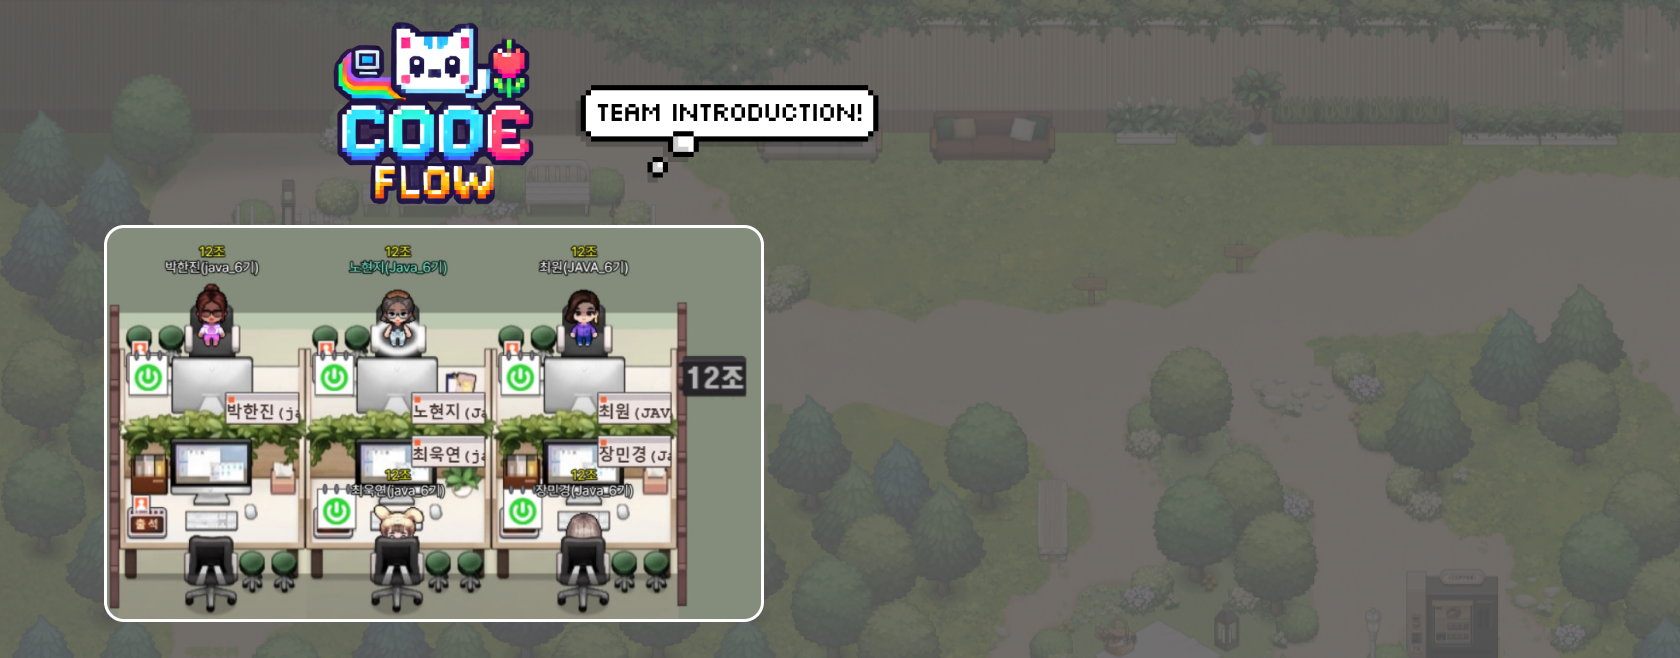
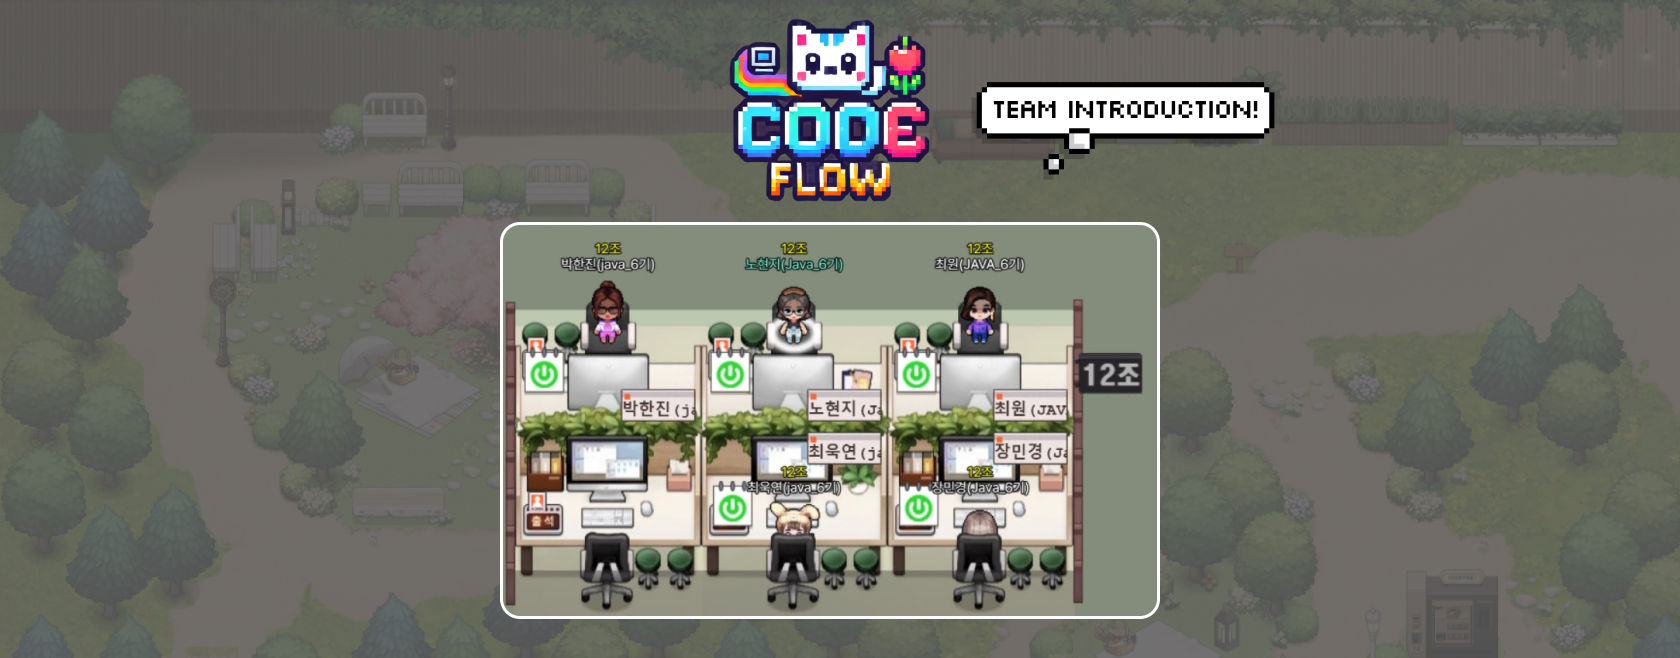
디자인 최종 수정

diff --git a/main.html b/main.html
@@ -25,6 +25,14 @@
             flex-direction: column;
             align-items: center;
             justify-content: center;
+            background-image: url('3131070.jpg');
+            background-size: cover;
+
+            background-position: center center;
+
+
+
+
         }
 
         .title {
@@ -37,17 +45,64 @@
             width: 2000px;
         }
 
-        .logo {
+        .onetwo {
             background-color: transparent;
-            margin-top: 10px;
+
         }
+
+        .uptitle {
+            display: flex;
+            font-size: 3em;
+            justify-content: center;
+            gap: 200px;
+            background-color: transparent;
+            padding: 10px;
+
+
+        }
+
+        .uptitle a {
+            color: white;
+            text-decoration: none;
+            font-size: 40px;
+            padding: 10px 30px;
+            background-color: transparent;
+            border-radius: 5px;
+        }
+
+        .uptitle a:hover {
+            background-color: #555;
+
+        }
+
 
         .main_img {
             display: flex;
             flex-direction: column;
             align-items: center;
             justify-content: center;
-            background-size: contain;
+            color: white;
+            background-image: url('title.png');
+            background-size: cover;
+            background-position: center;
+            background-color: rgba(26, 18, 69, 1);
+            width: 2000px;
+            height: 800px;
+            opacity: 1;
+            z-index: -1;
+
+
+
+
+        }
+
+        .main_img>h1 {
+            margin-left: 850px;
+            margin-bottom: 200px;
+            font-size: 3em;
+            margin-top: 400px;
+
+
         }
 
         .team {
@@ -70,7 +125,9 @@
             margin: 30px auto 10px auto;
             text-align: center;
             border-radius: 100px;
-            margin-top: 50px;
+            margin-top: 200px;
+            margin-bottom: 200px;
+
 
         }
 
@@ -92,6 +149,8 @@
             align-items: center;
             justify-content: center;
             margin-top: 80px;
+            
+
 
         }
 
@@ -158,6 +217,7 @@
             margin-bottom: 50px;
             text-align: center;
         }
+
         .col2 {
             display: flex;
             flex-direction: column;
@@ -166,6 +226,7 @@
             margin-bottom: 50px;
             text-align: center;
         }
+
         .col3 {
             display: flex;
             flex-direction: column;
@@ -173,6 +234,8 @@
             justify-content: center;
             margin-bottom: 50px;
             text-align: center;
+        }
+        .allbox{
         }
     </style>
 
@@ -248,12 +311,20 @@
 
 <body>
     <div class="title">
-        <img class="logo" src="file 1.png">
+        <div class="onetwo">
+            <nav class="uptitle">
+                <a href="#teamint">🌼팀원 소개🌼</a>
+                <a href="#one">🎉응원 한마디🎉</a>
+            </nav>
+        </div>
+
+
     </div>
     <div class="main_img">
-        <img src="title.png">
+        
+
     </div>
-    <div class="team">
+    <div class="team" id="teamint">
         <p>🌼팀원 소개🌼</p>
     </div>
     <div class="mycards">
@@ -330,47 +401,49 @@
             </div>
         </div>
     </div>
+    <div class="allbox" id="one">
+        <div class="text-ch">
+            <h1 class="display-5 fw-bolder" style="color: rgb(255, 255, 255);">🎉응원 한마디🎉</h1>
+        </div>
+        <div class="postingbox">
+            <div class="post-ch" id="input-card">
+                <div class="post" id="input-card">
+                    <div class="form-floating mb-3">
+                        <input type="email" class="form-control" id="who" placeholder="name@example.com">
+                        <label for="floatingInput">닉네임</label>
+                    </div>
 
-    <div class="text-ch">
-        <h1 class="display-5 fw-bolder">🎉응원 한마디🎉</h1>
-    </div>
-    <div class="postingbox">
-        <div class="post-ch" id="input-card">
-            <div class="post" id="input-card">
-                <div class="form-floating mb-3">
-                    <input type="email" class="form-control" id="who" placeholder="name@example.com">
-                    <label for="floatingInput">닉네임</label>
-                </div>
-
-                <div class="input-group mb-3">
-                    <button class="btn btn-outline-secondary" type="button">응원이모지</button>
-                    <select class="form-select" id="emoji" aria-label="Example select with button addon">
-                        <option selected>이모지 선택</option>
-                        <option value="👏">👏</option>
-                        <option value="🎉">🎉</option>
-                        <option value="🤳">🤳</option>
-                        <option value="💖">💖</option>
-                        <option value="✌">✌</option>
-                        <option value="🤝">🤝</option>
-                        <option value="🤓">🤓</option>
-                        <option value="👍">👍</option>
-                        <option value="😍">😍</option>
-                    </select>
-                </div>
-                <div class="form-floating">
-                    <textarea class="form-control" placeholder="Leave a comment here" id="comment"></textarea>
-                    <label for="floatingTextarea">응원 한마디</label>
-                </div>
-                <div class="button2">
-                    <button type="button" class="btn btn-danger" id="cheerBtn"> 응원남기기 </button>
+                    <div class="input-group mb-3">
+                        <button class="btn btn-outline-secondary" type="button">응원이모지</button>
+                        <select class="form-select" id="emoji" aria-label="Example select with button addon">
+                            <option selected>이모지 선택</option>
+                            <option value="👏">👏</option>
+                            <option value="🎉">🎉</option>
+                            <option value="🤳">🤳</option>
+                            <option value="💖">💖</option>
+                            <option value="✌">✌</option>
+                            <option value="🤝">🤝</option>
+                            <option value="🤓">🤓</option>
+                            <option value="👍">👍</option>
+                            <option value="😍">😍</option>
+                        </select>
+                    </div>
+                    <div class="form-floating">
+                        <textarea class="form-control" placeholder="Leave a comment here" id="comment"></textarea>
+                        <label for="floatingTextarea">응원 한마디</label>
+                    </div>
+                    <div class="button2">
+                        <button type="button" class="btn btn-danger" id="cheerBtn"> 응원남기기 </button>
+                    </div>
                 </div>
             </div>
         </div>
     </div>
 
+
     <div class="cheerbox">
         <div id="cheercard" class="row row-cols-1 row-cols-md-3 g-4">
-        
+
             <div class="col1">
                 <div class="card h-100">
                     <div class="card-body">
@@ -403,7 +476,7 @@
             </div>
         </div>
     </div>
-    
+
 
 
 </body>

diff --git a/subpage1.html b/subpage1.html
@@ -19,7 +19,10 @@
         }
 
         body {
-            background-color: rgba(254, 255, 194, 0.75);
+            background-image: url('3131070.jpg');
+            background-size: cover;
+            background-repeat: no-repeat;
+            background-position: center center;
         }
 
         .title {

diff --git a/subpage2.html b/subpage2.html
@@ -19,7 +19,10 @@
         }
 
         body {
-            background-color: rgba(254, 255, 194, 0.75);
+            background-image: url('3131070.jpg');
+            background-size: cover;
+            background-repeat: no-repeat;
+            background-position: center center;
         }
 
         .title {

diff --git a/subpage3.html b/subpage3.html
@@ -19,7 +19,10 @@
         }
 
         body {
-            background-color: rgba(254, 255, 194, 0.75);
+            background-image: url('3131070.jpg');
+            background-size: cover;
+            background-repeat: no-repeat;
+            background-position: center center;
         }
 
         .title {

diff --git a/subpage4.html b/subpage4.html
@@ -19,7 +19,10 @@
         }
 
         body {
-            background-color: rgba(254, 255, 194, 0.75);
+            background-image: url('3131070.jpg');
+            background-size: cover;
+            background-repeat: no-repeat;
+            background-position: center center;
         }
 
         .title {

diff --git a/subpage5.html b/subpage5.html
@@ -19,7 +19,10 @@
         }
 
         body {
-            background-color: rgba(254, 255, 194, 0.75);
+            background-image: url('3131070.jpg');
+            background-size: cover;
+            background-repeat: no-repeat;
+            background-position: center center;
         }
 
         .title {
